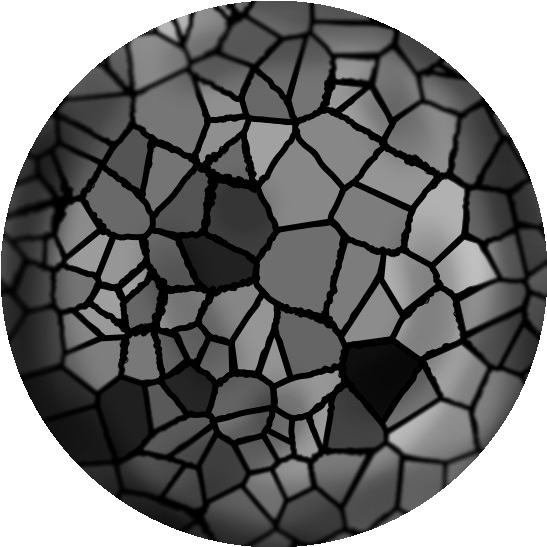
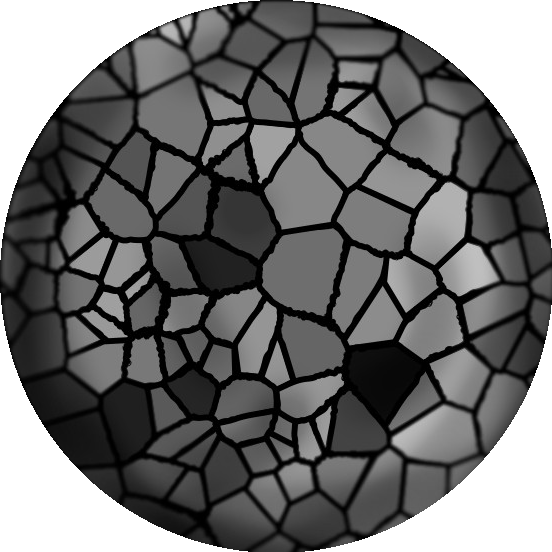
Mask then set transparent instead of crop to circle.
- Should be more efficient/faster.
- Update `eg/output.png`.

diff --git a/cropping_funcs.py b/cropping_funcs.py
@@ -15,58 +15,25 @@
 import numpy as np
 import cv2
 
-def zealous_square_crop_circle(r,cx,cy,img):
-    n_rows,n_cols,_ = img.shape
+from PIL import Image,ImageDraw
 
-    del_rows = []
-    upper_crop = 0
-    upper_crop_found = False
-    for i in range(n_rows):
-        dist_min = abs(i - cy)
-        if dist_min > r:
-            del_rows.append(i)
-            if not upper_crop_found:
-                if upper_crop != i:
-                    upper_crop_found = True
-                else:
-                    upper_crop += 1
-    img = np.delete(img,tuple(del_rows),axis=0)
-#    print("vertical cropping complete")
+def crop_to_circle(working_img,circle):
+    cx,cy,r = circle
 
-    del_cols = []
-    left_crop = 0
-    left_crop_found = False
-    for j in range(n_cols):
-        dist_min = abs(j - cx)
-        if dist_min > r:
-            del_cols.append(j)
-            if not left_crop_found:
-                if left_crop != j:
-                    left_crop_found = True
-                else:
-                    left_crop += 1
-    img = np.delete(img,tuple(del_cols),axis=1)
-#    print("horizontal cropping complete")
-    return img
+    n_rows,n_cols,_ = working_img.shape
 
-def circle_transparency_crop(img):
-    n_rows,n_cols,_ = img.shape
-    if n_rows != n_cols:
-        print("Warning: Input is not a zealously cropped circle - results may not be great")
-    img = np.dstack([img,255*np.ones([n_rows,n_cols,1])])
+    # Crop to just the region of interest.
+    working_img = Image.fromarray(working_img).crop([cx-r,cy-r,cx+r,cy+r])
 
-    r = n_rows/2
-    cy = n_rows/2
-    cx = n_cols/2
+    # New image for mask.
+    size = [2*r,2*r]
+    circle_mask = Image.new("1",size,0)
+    # Draw circle filling the mask image.
+    ImageDraw.Draw(circle_mask).ellipse([0,0] + size,fill=1)
 
-#    print("circular cropping of image with dimensions : %s,%s" % (n_rows,n_cols))
-    for i in range(n_rows):
-        for j in range(n_cols):
-            dist_to_c = np.sqrt((i - cy)**2 + (j - cx)**2)
-            if dist_to_c > r:
-                img[i][j] = [0,0,0,0]
-#    print("circular cropping finished")
-    return img
+    # Set circle mask as alpha.
+    processed_img = np.dstack([working_img,255*np.asarray(circle_mask)])
+    return processed_img
 
 def process_image(image,working_scale:float=0.2,post_working_scale:float=0.6,param1:int=5,param2:int=50,output_border_width:int=4):
     basic_img = cv2.imread(image,cv2.IMREAD_UNCHANGED)
@@ -91,19 +58,14 @@ def process_image(image,working_scale:float=0.2,post_working_scale:float=0.6,par
         circles = np.rint(circles)[0]
         circles = np.array(sorted(circles,key=lambda c : c[2],reverse=True))
         circ = np.uint16(circles[0]/(processing_scale/working_scale))
-        c = (circ[0],circ[1])
+        c = [circ[0],circ[1]]
         r = circ[2]
 
         if output_border_width:
             cv2.circle(working_img,c,r,(0,0,0),output_border_width*2) # multiply border width by 2 as half of thickness lies outside fitted circle
+        r = r + output_border_width
 
-        cx,cy = c
-
-        r = r - 3
-
-        processed_img = zealous_square_crop_circle(r,cx,cy,working_img)
-        processed_img = circle_transparency_crop(processed_img)
-
+        processed_img = crop_to_circle(working_img,c + [r])
         processed_img = np.uint8(processed_img)
     else:
         processed_img = None
